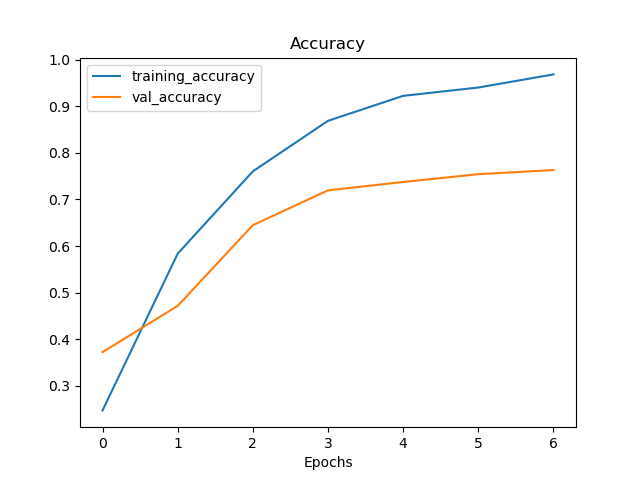
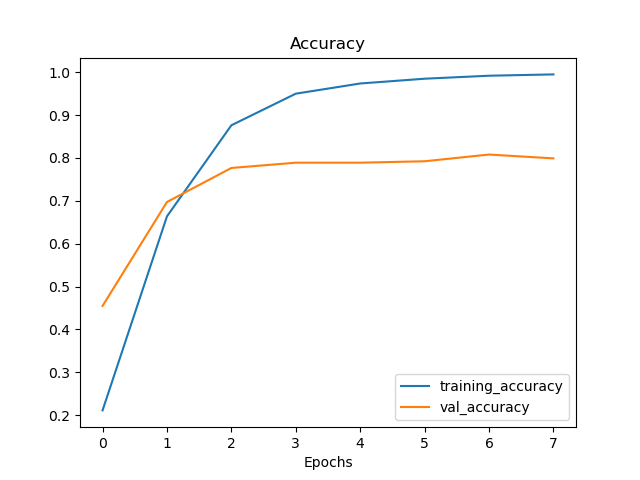
New train results

diff --git a/image_process.py b/image_process.py
@@ -6,6 +6,8 @@ import itertools
 import matplotlib.pyplot as plt
 import numpy as np
 
+from sklearn.utils.class_weight import compute_class_weight
+from sklearn.preprocessing import MultiLabelBinarizer
 from sklearn.metrics import confusion_matrix
 from sklearn.metrics import accuracy_score, precision_recall_fscore_support
 
@@ -221,3 +223,50 @@ def calculate_results(y_true, y_pred):
       with open("results.json", "w") as outfile:
         json.dump(model_results, outfile)
       return model_results
+
+def generate_class_weights(class_series, multi_class=True, one_hot_encoded=False):
+  """
+  Method to generate class weights given a set of multi-class or multi-label labels, both one-hot-encoded or not.
+  Some examples of different formats of class_series and their outputs are:
+    - generate_class_weights(['mango', 'lemon', 'banana', 'mango'], multi_class=True, one_hot_encoded=False)
+    {'banana': 1.3333333333333333, 'lemon': 1.3333333333333333, 'mango': 0.6666666666666666}
+    - generate_class_weights([[1, 0, 0], [0, 1, 0], [0, 0, 1], [1, 0, 0]], multi_class=True, one_hot_encoded=True)
+    {0: 0.6666666666666666, 1: 1.3333333333333333, 2: 1.3333333333333333}
+    - generate_class_weights([['mango', 'lemon'], ['mango'], ['lemon', 'banana'], ['lemon']], multi_class=False, one_hot_encoded=False)
+    {'banana': 1.3333333333333333, 'lemon': 0.4444444444444444, 'mango': 0.6666666666666666}
+    - generate_class_weights([[0, 1, 1], [0, 0, 1], [1, 1, 0], [0, 1, 0]], multi_class=False, one_hot_encoded=True)
+    {0: 1.3333333333333333, 1: 0.4444444444444444, 2: 0.6666666666666666}
+  The output is a dictionary in the format { class_label: class_weight }. In case the input is one hot encoded, the class_label would be index
+  of appareance of the label when the dataset was processed. 
+  In multi_class this is np.unique(class_series) and in multi-label np.unique(np.concatenate(class_series)).
+  Author: Angel Igareta (angel@igareta.com)
+  """
+  if multi_class:
+    # If class is one hot encoded, transform to categorical labels to use compute_class_weight   
+    if one_hot_encoded:
+      class_series = np.argmax(class_series, axis=1)
+  
+    # Compute class weights with sklearn method
+    class_labels = np.unique(class_series)
+    class_weights = compute_class_weight(class_weight='balanced', classes=class_labels, y=class_series)
+    return dict(zip(class_labels, class_weights))
+  else:
+    # It is neccessary that the multi-label values are one-hot encoded
+    mlb = None
+    if not one_hot_encoded:
+      mlb = MultiLabelBinarizer()
+      class_series = mlb.fit_transform(class_series)
+
+    n_samples = len(class_series)
+    n_classes = len(class_series[0])
+
+    # Count each class frequency
+    class_count = [0] * n_classes
+    for classes in class_series:
+        for index in range(n_classes):
+            if classes[index] != 0:
+                class_count[index] += 1
+    # Compute class weights using balanced method
+    class_weights = [n_samples / (n_classes * freq) if freq > 0 else 1 for freq in class_count]
+    class_labels = range(len(class_weights)) if mlb is None else mlb.classes_
+    return dict(zip(class_labels, class_weights))

diff --git a/train.py b/train.py
@@ -1,6 +1,6 @@
 from image_process import (create_dataset, display_augmented_images, display_image, 
                            plot_loss_curves, make_confusion_matrix, pred_and_plot,
-                           calculate_results, load_and_prep_image)
+                           calculate_results, load_and_prep_image, generate_class_weights)
 
 import numpy as np
 import os
@@ -50,6 +50,7 @@ valid_ds = create_dataset("validation",
 classes = train_ds.class_names
 valid_classes = valid_ds.class_names
 
+y_train= tf.concat([y for x, y in train_ds], axis=0)
 y_true = np.concatenate([y for x, y in valid_ds], axis=0)
 
 # add some normalization and data augmentation
@@ -78,11 +79,11 @@ valid_ds = valid_ds.prefetch(tf.data.AUTOTUNE)
 # create model
 inputs = keras.Input(shape=(IMAGE_HEIGHT, IMAGE_WIDTH, 3))
 #x = data_augmentation(inputs)
-
 x = Conv2D(128, kernel_size=3, activation="relu", padding="same")(inputs)
-x = MaxPooling2D(2)(x)
 x = Conv2D(128, kernel_size=3, activation="relu", padding="same")(x)
+x = MaxPooling2D(2)(x)
 x = layers.Dropout(.2)(x)
+x = Conv2D(64, kernel_size=3, activation="relu", padding="same")(x)
 x = Conv2D(64, kernel_size=3, activation="relu", padding="same")(x)
 x = MaxPooling2D(2)(x)
 
@@ -90,6 +91,10 @@ x = Flatten(name="Flatten")(x)
 outputs = Dense(44, activation="softmax")(x)
 
 model = keras.Model(inputs=inputs, outputs=outputs)
+
+# generate class weights
+class_weights = generate_class_weights(y_train.numpy())
+print(class_weights)
 
 ###### callbacks ########
 early_stopping = EarlyStopping(monitor="val_loss", patience=3)
@@ -114,7 +119,8 @@ model.compile(
 history_ds = model.fit(train_ds, validation_data=valid_ds,
                        batch_size=BATCH_SIZE,
                        epochs=50,
-                       callbacks=[early_stopping, model_checkpoint])
+                       callbacks=[early_stopping, model_checkpoint],
+                       class_weight=class_weights)
 
 y_pred = model.predict(valid_ds, verbose=1)
 y_pred = np.argmax(y_pred, axis=1)
@@ -122,4 +128,4 @@ y_pred = np.argmax(y_pred, axis=1)
 plot_loss_curves(history_ds)
 pred_and_plot(model, "Astrocitoma T2.jpeg", classes, scale=False)
 calculate_results(y_true, y_pred)
-make_confusion_matrix(y_true, y_pred, figsize=(20,20), text_size=20, classes=valid_classes, savefig=True)
+make_confusion_matrix(y_true, y_pred, figsize=(30,30), text_size=20, classes=valid_classes, savefig=True)
